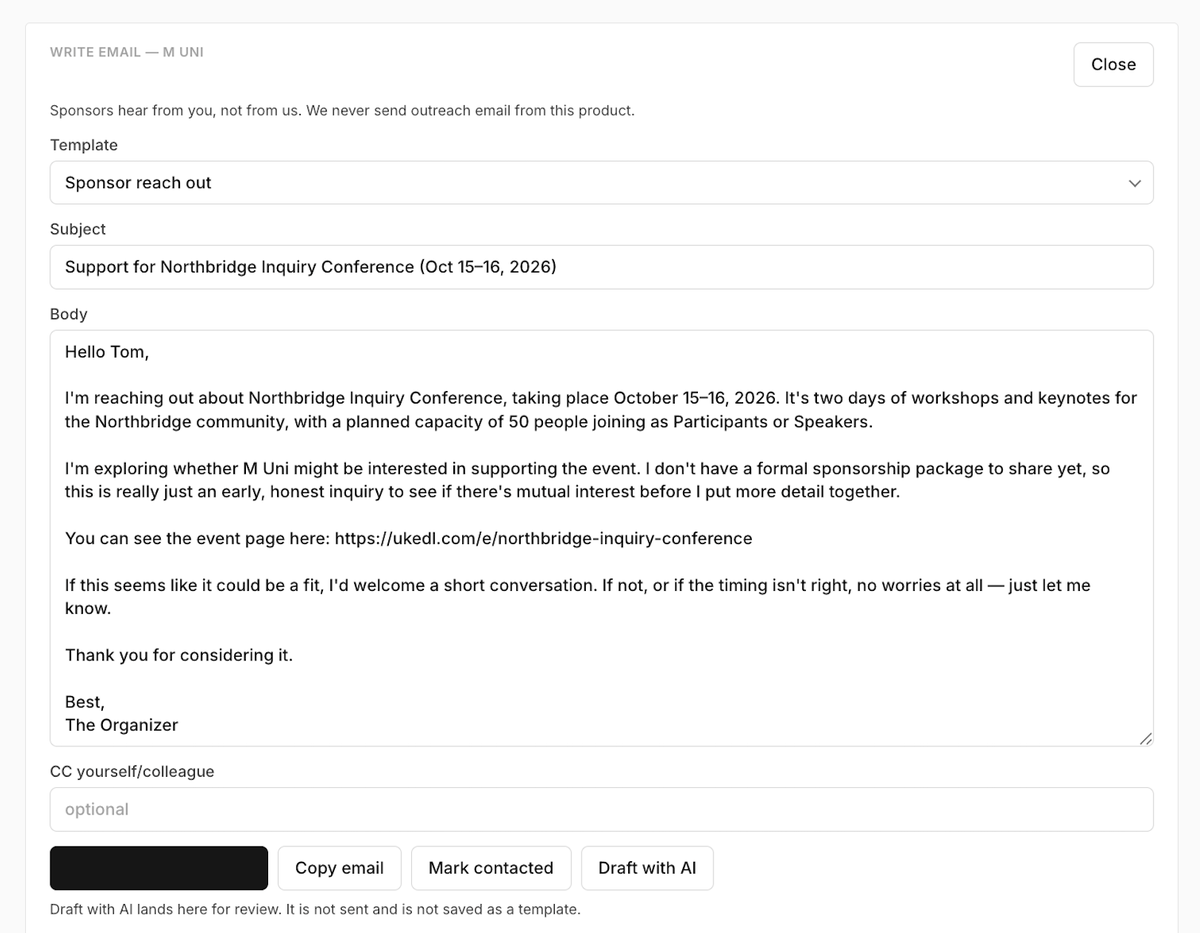
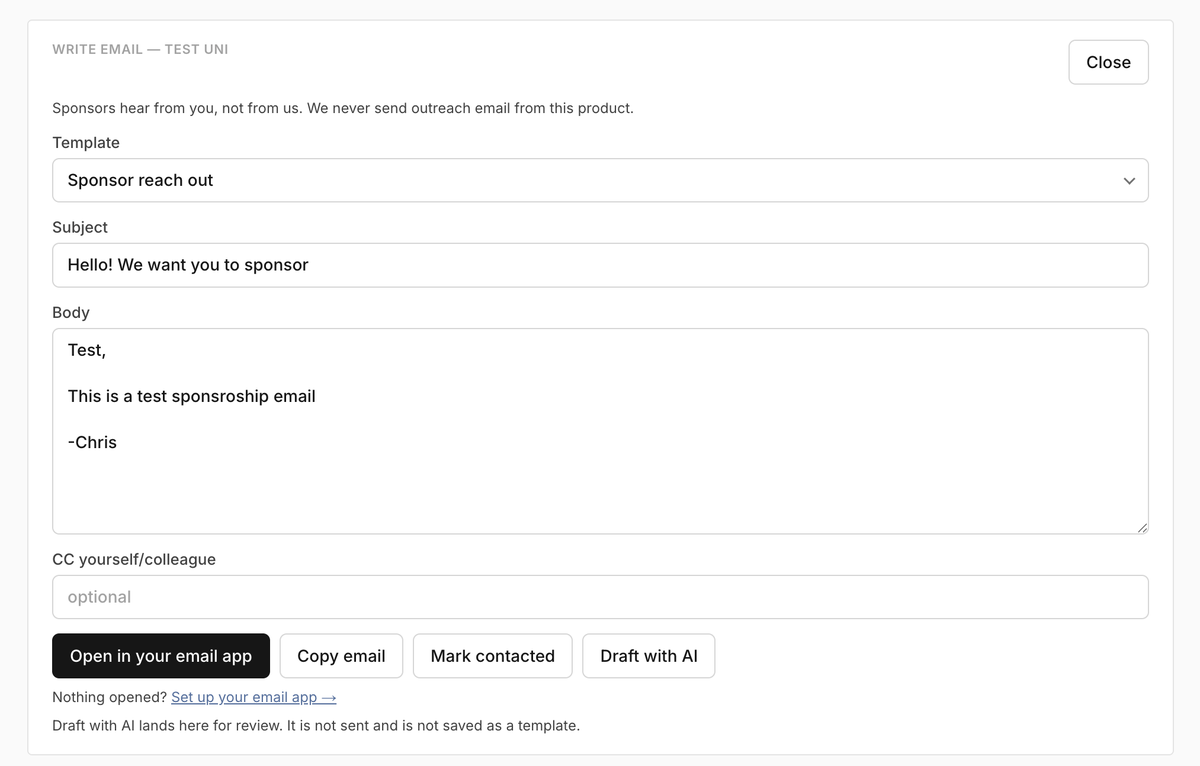
UI-3.1: session feedback hands its card back to the auto pipeline's magnified shot, and the outreach portrait shows the composer with its restored open-in-your-email-app button

diff --git a/apps/web/__tests__/featureGuide.test.ts b/apps/web/__tests__/featureGuide.test.ts
@@ -73,7 +73,6 @@ describe("K-2.1 — Feature Guide completeness", () => {
     expect(conciergeSize.height).toBeGreaterThan(0);
     expect(FEATURE_GUIDE.venue_maps.imageSrc).toBe("/feature-guide/venue_maps.png");
     expect(FEATURE_GUIDE.cfp.imageSrc).toBe("/feature-guide/cfp.png");
-    expect(FEATURE_GUIDE.session_feedback.imageSrc).toBe("/feature-guide/session_feedback.png");
     expect(FEATURE_GUIDE.sponsors.imageSrc).toBe("/feature-guide/sponsors.png");
     expect(FEATURE_GUIDE.sponsor_outreach.imageSrc).toBe("/feature-guide/sponsor_outreach.png");
     expect(FEATURE_GUIDE.checkin.imageSrc).toBe("/feature-guide/checkin.png");
@@ -91,7 +90,6 @@ describe("K-2.1 — Feature Guide completeness", () => {
       "/feature-guide/concierge.png",
       "/feature-guide/venue_maps.png",
       "/feature-guide/cfp.png",
-      "/feature-guide/session_feedback.png",
       "/feature-guide/sponsors.png",
       "/feature-guide/sponsor_outreach.png",
       "/feature-guide/checkin.png",

diff --git a/packages/shared/src/featureGuide.ts b/packages/shared/src/featureGuide.ts
@@ -228,7 +228,6 @@ export const FEATURE_GUIDE: Record<FeatureKey, FeatureGuideEntry> = {
       "On by default in the registry. Free plans do not include polls; Per-event and above do. Focused and Talk showcase turn them off. Turning it off hides the card; existing polls stay.",
   },
   session_feedback: {
-    imageSrc: "/feature-guide/session_feedback.png",
     whatItDoes:
       "After a session’s end time, attendees can leave a 1–5 rating and an optional comment (up to 4,000 characters). One response per person per session; submitting again replaces the comment. Organizers get a count, average, histogram, and comments. The post-event recap can use this feedback when both features are on.",
     experience:

diff --git a/apps/web/__tests__/featureGuideUi.test.tsx b/apps/web/__tests__/featureGuideUi.test.tsx
@@ -89,7 +89,7 @@ describe("K-2.1 — Features tab + GuidePanel", () => {
           "/feature-guide/engagement_points.png",
           "/feature-guide/certificates.png",
           "/feature-guide/venue_maps.png",
-          "/feature-guide/session_feedback.png",
+          "/feature-guide/auto/session_feedback.png",
           "/feature-guide/sponsor_outreach.png",
         ]),
       );

diff --git a/apps/web/__tests__/featureGuideAuto.test.ts b/apps/web/__tests__/featureGuideAuto.test.ts
@@ -59,7 +59,6 @@ describe("featureGuideImage resolution order", () => {
       "engagement_points",
       "certificates",
       "venue_maps",
-      "session_feedback",
       "sponsors",
       "sponsor_outreach",
       "checkin",
